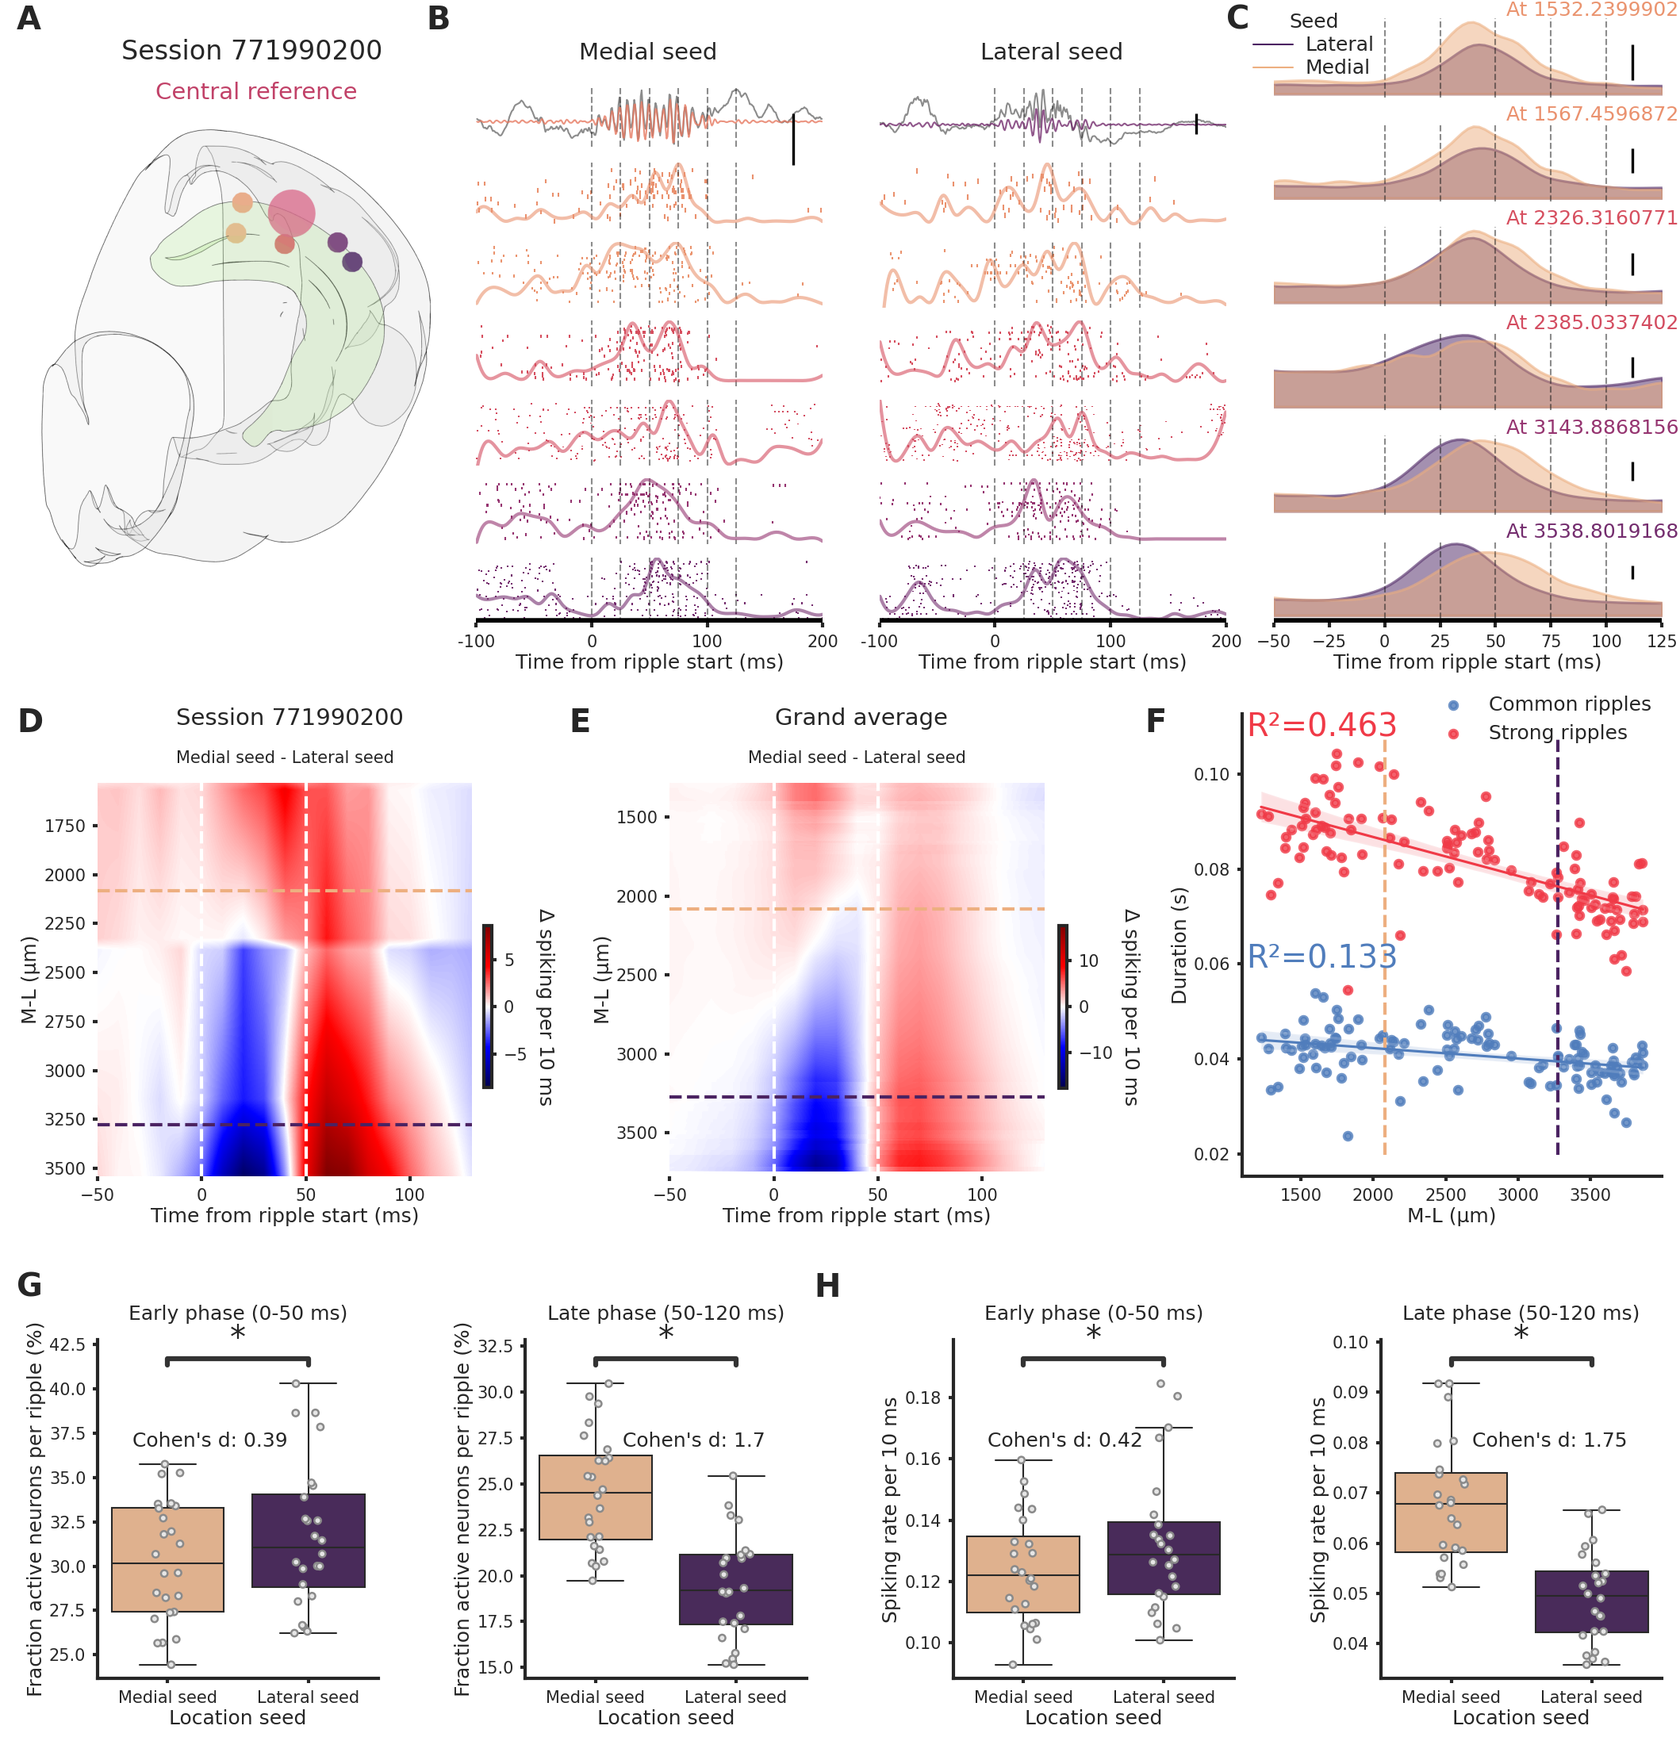
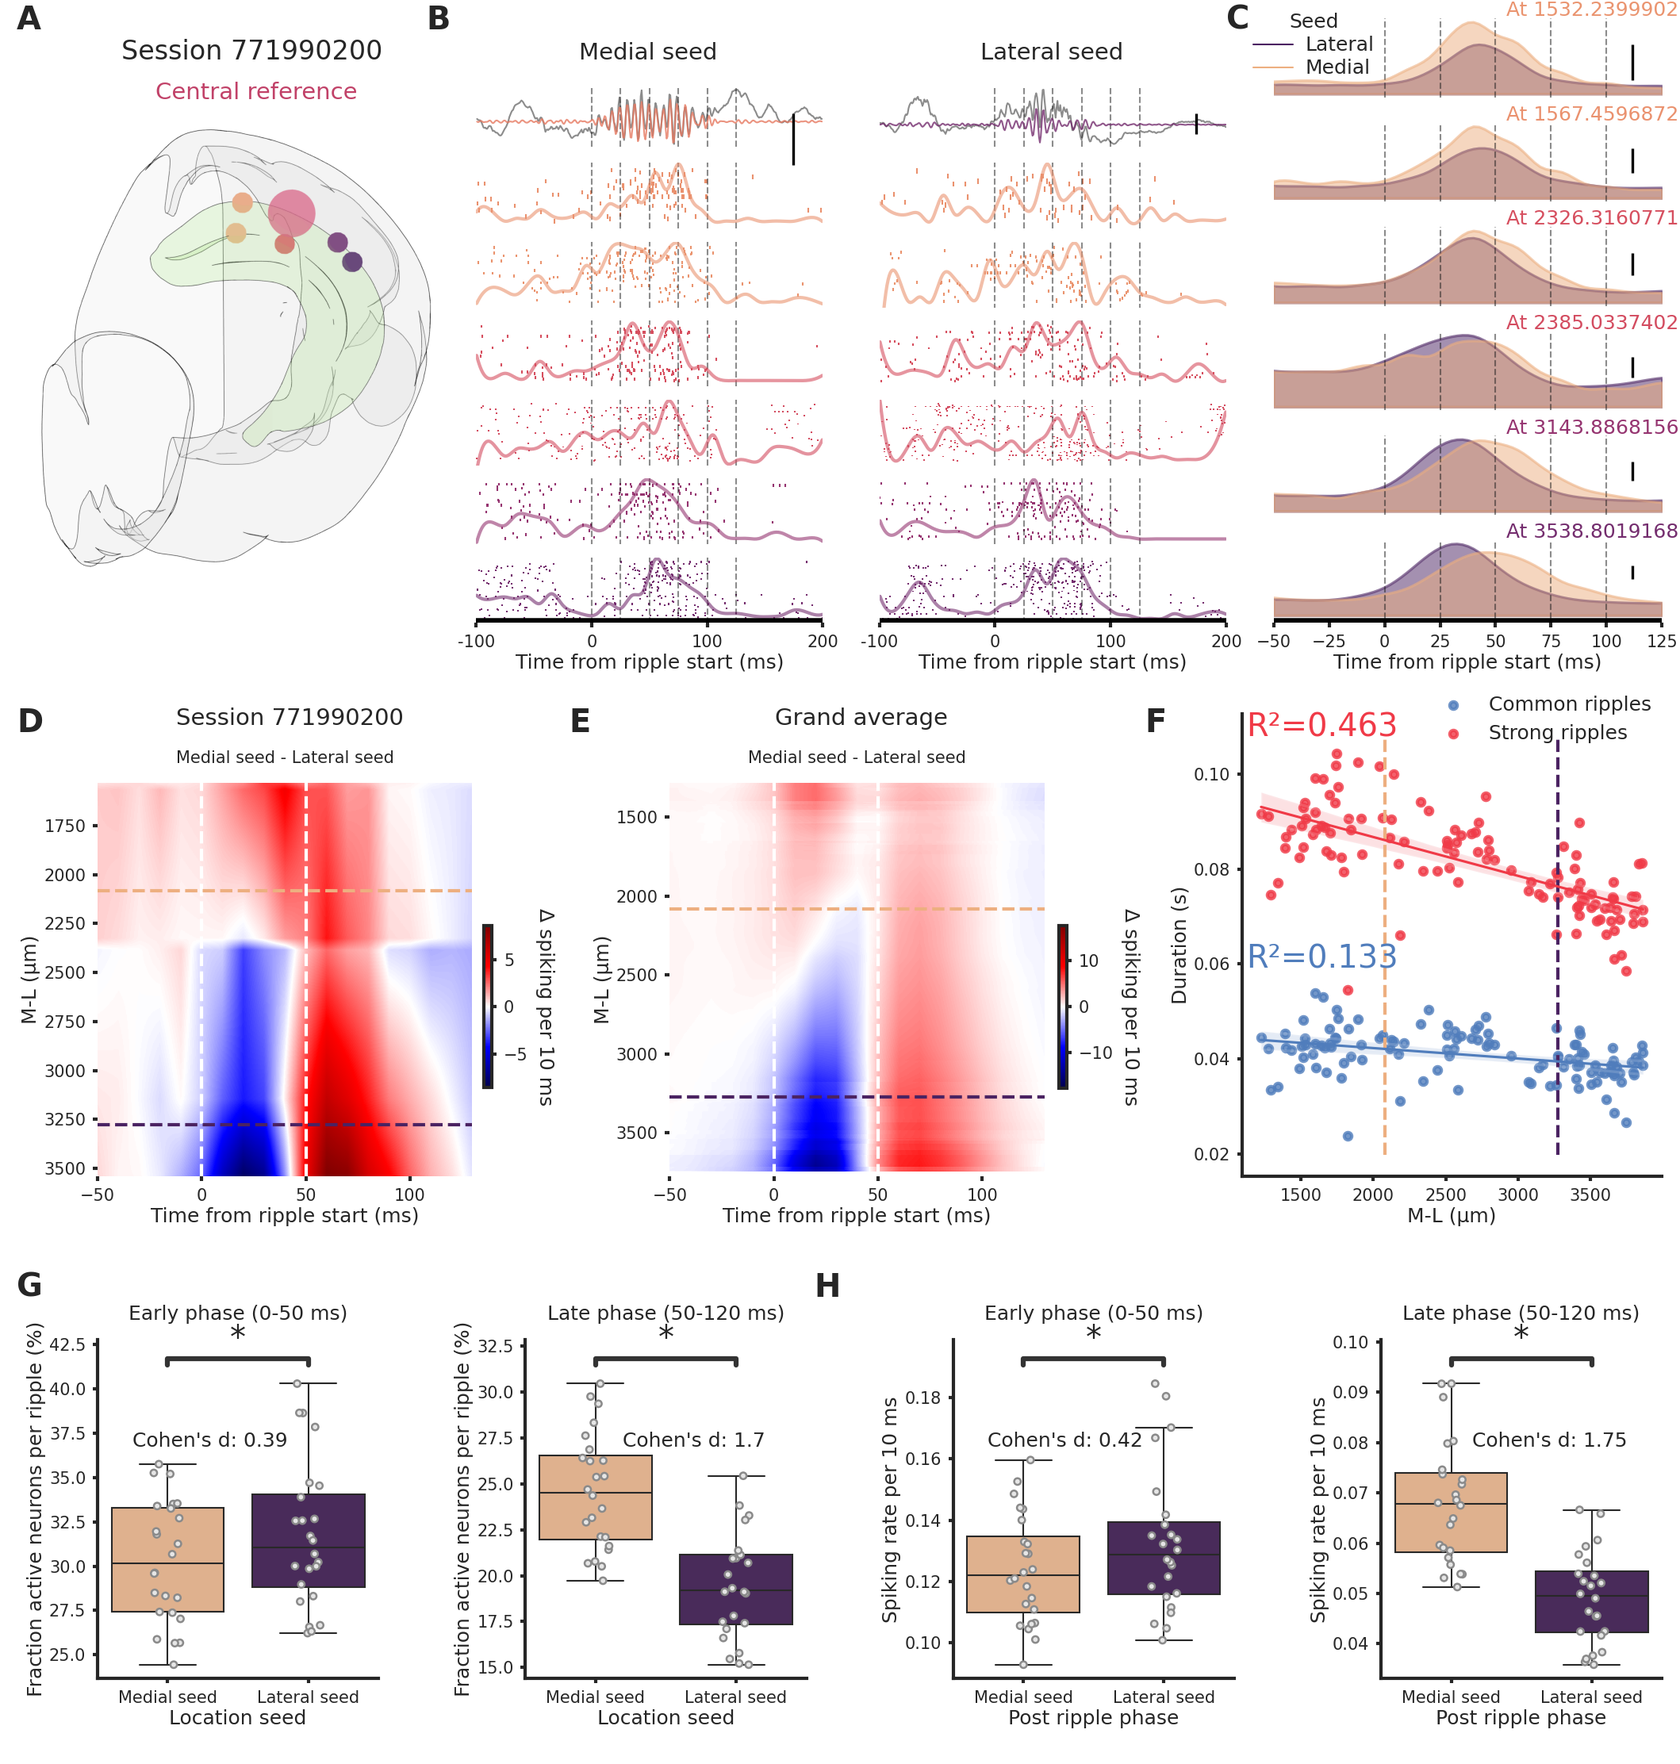
Clean code. Added window variables in Utils.Settings for spiking analysis.

diff --git a/Figures/Figure_4/Figure_4_spiking_rate_early_late.py b/Figures/Figure_4/Figure_4_spiking_rate_early_late.py
@@ -24,27 +24,27 @@ fig, axs = plt.subplots(1, 2, figsize=(16, 8))
 
 data = pd.melt(tot_summary_early[["Lateral seed", "Medial seed", "Session id"]],
                value_vars=["Lateral seed", "Medial seed"],
-               id_vars=["Session id"], var_name='Location seed', value_name='Spiking rate per 10 ms').groupby(
-    ["Session id", "Location seed"]).mean().reset_index()
+               id_vars=["Session id"], var_name='Post ripple phase', value_name='Spiking rate per 10 ms').groupby(
+    ["Session id", "Post ripple phase"]).mean().reset_index()
 
-sns.boxplot(data=data, x="Location seed", y="Spiking rate per 10 ms", showfliers=False, ax=axs[0], palette=palette_ML,
+sns.boxplot(data=data, x="Post ripple phase", y="Spiking rate per 10 ms", showfliers=False, ax=axs[0], palette=palette_ML,
             order=["Medial seed", "Lateral seed"])
 ax = sns.stripplot(data=tot_summary_early.groupby("Session id")[["Lateral seed", "Medial seed"]].mean(), ax=axs[0],
                    dodge=True, size=2, color=".9", linewidth=0.6, jitter=0.1, order=["Medial seed", "Lateral seed"])
 axs[0].set_title("Early phase (0-50 ms)")
 
-print(pg.normality(data, dv="Spiking rate per 10 ms", group="Location seed"))
-print(pg.ttest(data[data["Location seed"] == "Medial seed"]["Spiking rate per 10 ms"],
-               data[data["Location seed"] == "Lateral seed"]["Spiking rate per 10 ms"])["p-val"])
-print(pg.mwu(data[data["Location seed"] == "Medial seed"]["Spiking rate per 10 ms"],
-             data[data["Location seed"] == "Lateral seed"]["Spiking rate per 10 ms"])["p-val"])
+print(pg.normality(data, dv="Spiking rate per 10 ms", group="Post ripple phase"))
+print(pg.ttest(data[data["Post ripple phase"] == "Medial seed"]["Spiking rate per 10 ms"],
+               data[data["Post ripple phase"] == "Lateral seed"]["Spiking rate per 10 ms"])["p-val"])
+print(pg.mwu(data[data["Post ripple phase"] == "Medial seed"]["Spiking rate per 10 ms"],
+             data[data["Post ripple phase"] == "Lateral seed"]["Spiking rate per 10 ms"])["p-val"])
 
-ttest_early_spiking = pg.ttest(data[data["Location seed"] == "Medial seed"]["Spiking rate per 10 ms"],
-                  data[data["Location seed"] == "Lateral seed"]["Spiking rate per 10 ms"], paired=True)
+ttest_early_spiking = pg.ttest(data[data["Post ripple phase"] == "Medial seed"]["Spiking rate per 10 ms"],
+                  data[data["Post ripple phase"] == "Lateral seed"]["Spiking rate per 10 ms"], paired=True)
 
 if ttest_early_spiking["p-val"].values[0] < 0.05:
     annot = Annotator(ax, data=data, pairs=[("Medial seed", "Lateral seed")],
-                      y="Spiking rate per 10 ms", x="Location seed", palette=palette_ML,
+                      y="Spiking rate per 10 ms", x="Post ripple phase", palette=palette_ML,
                       order=["Medial seed", "Lateral seed"])
     (annot
      .configure(test=None, test_short_name="custom test", text_format='star', loc='inside', verbose=0)
@@ -55,26 +55,26 @@ if ttest_early_spiking["p-val"].values[0] < 0.05:
                 fontsize=6, ha='center', va='center');
 
 data = pd.melt(tot_summary_late[["Lateral seed", "Medial seed", "Session id"]],
-               value_vars=["Lateral seed", "Medial seed"], id_vars=["Session id"], var_name='Location seed',
-               value_name='Spiking rate per 10 ms').groupby(["Session id", "Location seed"]).mean().reset_index()
+               value_vars=["Lateral seed", "Medial seed"], id_vars=["Session id"], var_name='Post ripple phase',
+               value_name='Spiking rate per 10 ms').groupby(["Session id", "Post ripple phase"]).mean().reset_index()
 
-sns.boxplot(data=data, x="Location seed", y="Spiking rate per 10 ms", showfliers=False, ax=axs[1], palette=palette_ML,
+sns.boxplot(data=data, x="Post ripple phase", y="Spiking rate per 10 ms", showfliers=False, ax=axs[1], palette=palette_ML,
             order=["Medial seed", "Lateral seed"])
 ax = sns.stripplot(data=tot_summary_late.groupby("Session id")[["Lateral seed", "Medial seed"]].mean(), ax=axs[1],
                    dodge=True, size=2, color=".9", linewidth=0.6, jitter=0.1, order=["Medial seed", "Lateral seed"])
 
-print(pg.normality(data, dv="Spiking rate per 10 ms", group="Location seed"))
-print(pg.ttest(data[data["Location seed"] == "Medial seed"]["Spiking rate per 10 ms"],
-               data[data["Location seed"] == "Lateral seed"]["Spiking rate per 10 ms"])["p-val"])
-print(pg.mwu(data[data["Location seed"] == "Medial seed"]["Spiking rate per 10 ms"],
-             data[data["Location seed"] == "Lateral seed"]["Spiking rate per 10 ms"])["p-val"])
+print(pg.normality(data, dv="Spiking rate per 10 ms", group="Post ripple phase"))
+print(pg.ttest(data[data["Post ripple phase"] == "Medial seed"]["Spiking rate per 10 ms"],
+               data[data["Post ripple phase"] == "Lateral seed"]["Spiking rate per 10 ms"])["p-val"])
+print(pg.mwu(data[data["Post ripple phase"] == "Medial seed"]["Spiking rate per 10 ms"],
+             data[data["Post ripple phase"] == "Lateral seed"]["Spiking rate per 10 ms"])["p-val"])
 
-ttest_late_spiking = pg.ttest(data[data["Location seed"] == "Medial seed"]["Spiking rate per 10 ms"],
-                  data[data["Location seed"] == "Lateral seed"]["Spiking rate per 10 ms"], paired=True)
+ttest_late_spiking = pg.ttest(data[data["Post ripple phase"] == "Medial seed"]["Spiking rate per 10 ms"],
+                  data[data["Post ripple phase"] == "Lateral seed"]["Spiking rate per 10 ms"], paired=True)
 
 if ttest_late_spiking["p-val"].values[0] < 0.05:
     annot = Annotator(ax, data=data, pairs=[("Medial seed", "Lateral seed")],
-                      y="Spiking rate per 10 ms", x="Location seed", palette=palette_ML,
+                      y="Spiking rate per 10 ms", x="Post ripple phase", palette=palette_ML,
                       order=["Medial seed", "Lateral seed"])
     (annot
      .configure(test=None, test_short_name="custom test", text_format='star', loc='inside', verbose=0)

diff --git a/Utils/Utils.py b/Utils/Utils.py
@@ -1361,7 +1361,7 @@ def batch_trajectories(ripples_calcs, kind, func):
         ripples = ripples_calcs[session_id][3].copy()
         ripples = ripples[ripples["Area"] == "CA1"]
         ripples = ripples.groupby("Probe number-area").filter(lambda group: group["∫Ripple"].var() > var_thr)
-        input_rip.append(ripples.groupby("Probe number-area").mean()["M-L (µm)"])
+        input_rip.append(ripples.groupby("Probe number-area")["M-L (µm)"].mean())
 
     ml_space = pd.concat(input_rip)
 
@@ -1405,7 +1405,7 @@ def batch_trajectories(ripples_calcs, kind, func):
         if kind == "medial":
             position = "Medial"
             source_area = str(ripples["Probe number"].min()) + "-CA1"
-            if (np.any(ripples.groupby("Probe number-area").mean()["M-L (µm)"] < medial_lim)) & (np.any(ripples.groupby("Probe number-area").mean()["M-L (µm)"] > medial_lim)): # check that there are recording sites in other hippocampal sections
+            if (np.any(ripples.groupby("Probe number-area")["M-L (µm)"].mean() < medial_lim)) & (np.any(ripples.groupby("Probe number-area")["M-L (µm)"].mean() > medial_lim)): # check that there are recording sites in other hippocampal sections
                 spatial_infos.append([ripples.groupby("Probe number-area").mean().loc[source_area, :], pd.DataFrame(
                     ripples.groupby("Probe number-area").mean().loc[
                     ripples.groupby("Probe number-area").mean().index != source_area, :])])
@@ -1413,15 +1413,15 @@ def batch_trajectories(ripples_calcs, kind, func):
         elif kind == "lateral":
             position = "Lateral"
             source_area = str(ripples["Probe number"].max()) + "-CA1"
-            if (np.any(ripples.groupby("Probe number-area").mean()["M-L (µm)"] < lateral_lim)) & (np.any(ripples.groupby("Probe number-area").mean()["M-L (µm)"] > lateral_lim)):
+            if (np.any(ripples.groupby("Probe number-area")["M-L (µm)"].mean() < lateral_lim)) & (np.any(ripples.groupby("Probe number-area")["M-L (µm)"].mean() > lateral_lim)):
                 spatial_infos.append([ripples.groupby("Probe number-area").mean().loc[source_area, :], pd.DataFrame(
                                       ripples.groupby("Probe number-area").mean().loc[
                                       ripples.groupby("Probe number-area").mean().index != source_area, :])])
                 input_rip.append((session_id, ripples, spatial_info, source_area, position))
         elif kind == "center":
             position = "Center"
-            if (np.any(ripples.groupby("Probe number-area").mean()["M-L (µm)"].between(medial_lim, lateral_lim))) & (np.any(~ripples.groupby("Probe number-area").mean()["M-L (µm)"].between(medial_lim, lateral_lim))):
-                source_area = ripples.groupby("Probe number-area").mean()['M-L (µm)'].sub(center).abs().idxmin()
+            if (np.any(ripples.groupby("Probe number-area")["M-L (µm)"].mean().between(medial_lim, lateral_lim))) & (np.any(~ripples.groupby("Probe number-area")["M-L (µm)"].mean().between(medial_lim, lateral_lim))):
+                source_area = ripples.groupby("Probe number-area")["M-L (µm)"].mean().sub(center).abs().idxmin()
                 spatial_infos.append([ripples.groupby("Probe number-area").mean().loc[source_area, :], pd.DataFrame(
                     ripples.groupby("Probe number-area").mean().loc[
                     ripples.groupby("Probe number-area").mean().index != source_area, :])])
@@ -1520,7 +1520,7 @@ def process_spikes_per_ripple(time_center, space_sub_spike_times, window):
     out = []
     for cluster_id, spikes in time_space_sub_spike_times.items():
         out.append((cluster_id, len(spikes)/((window[1] + window[0]) * 100))) # per 10 ms
-
+        #out.append((cluster_id, len(spikes)/(((window[1] + window[0]) * 1000)/10))) # per 10 ms
     return out
 
 def batch_process_spike_hists_by_seed_location(func, real_ripple_summary, units, spike_times, target_area,

diff --git a/Calculations/Calculations_Figure_4.py b/Calculations/Calculations_Figure_4.py
@@ -60,7 +60,7 @@ def consolidate_spiking(spike_clusters, kind):
 
 
         summary_spiking["L-R (µm)"] = units.loc[summary_spiking.index]["left_right_ccf_coordinate"]
-        summary_spiking["Location seed"] = kind
+        summary_spiking["Post ripple phase"] = kind
 
         summary_spiking["ecephys_structure_acronym"] = units.loc[summary_spiking.index, "ecephys_structure_acronym"]
         summary_spiking["waveform_duration"] = units.loc[summary_spiking.index,"waveform_duration"]
@@ -266,12 +266,12 @@ with open(f"{ output_folder_figures_calculations}/temp_data_figure_4.pkl", "wb")
     dill.dump([space_sub_spike_times, target_area, units, field_to_use_to_compare,
                session_id_example, lfp, lfp_per_probe,
                ripple_cluster_lateral_seed, ripple_cluster_medial_seed, source_area, ripples,
-               tot_summary_early,  summary_fraction_active_clusters_per_ripples_early, \
-summary_fraction_active_clusters_per_ripples_early_by_neuron_type,
+               tot_summary_early,  summary_fraction_active_clusters_per_ripples_early,
+               summary_fraction_active_clusters_per_ripples_early_by_neuron_type,
                tot_summary_late,  summary_fraction_active_clusters_per_ripples_late,
-                                   summary_fraction_active_clusters_per_ripples_late_by_neuron_type,
-               tot_summary, summary_fraction_active_clusters_per_ripples, \
-summary_fraction_active_clusters_per_ripples_by_neuron_type], fp)
+               summary_fraction_active_clusters_per_ripples_late_by_neuron_type,
+               tot_summary, summary_fraction_active_clusters_per_ripples,
+               summary_fraction_active_clusters_per_ripples_by_neuron_type], fp)
 
 
 # create brainrenders

diff --git a/Calculations/Calculate_spike_clusters_parent_area_by_seed_location_first_50ms.py b/Calculations/Calculate_spike_clusters_parent_area_by_seed_location_first_50ms.py
@@ -6,7 +6,7 @@ from rich import print
 from tqdm.auto import tqdm
 from time import perf_counter
 from scipy.stats import zscore
-from Utils.Settings import window_spike_clu, output_folder_calculations, neuropixel_dataset, var_thr, minimum_ripples_count_spike_analysis, minimum_ripples_count_generated_in_lateral_or_medial_spike_analysis
+from Utils.Settings import window_spike_clu_early, output_folder_calculations, neuropixel_dataset, var_thr, minimum_ripples_count_spike_analysis, minimum_ripples_count_generated_in_lateral_or_medial_spike_analysis
 from Utils.Utils import acronym_to_main_area, clean_ripples_calculations, find_ripples_clusters_new, process_spikes_per_ripple,\
         batch_process_spike_clusters_by_seed_location
 
@@ -134,7 +134,7 @@ for session_id in tqdm(ripples_calcs.keys()):
                 lrs, out_clusters_medial, out_clusters_lateral, duration_ripples_medial, duration_ripples_lateral, units\
                     = batch_process_spike_clusters_by_seed_location(func, real_ripple_summary, units, spike_times,
                                                                            target_area,
-                                                                    field_to_use_to_compare, n_cpus, window_spike_clu)
+                                                                    field_to_use_to_compare, n_cpus, window_spike_clu_early)
 
                 spike_clusters[(session_id, target_area, type_source)] = [lrs, out_clusters_medial, out_clusters_lateral,
                                                                           duration_ripples_medial, duration_ripples_lateral, units]

diff --git a/Calculations/Calculate_spike_clusters_parent_area_by_seed_location_after_50ms.py b/Calculations/Calculate_spike_clusters_parent_area_by_seed_location_after_50ms.py
@@ -6,7 +6,7 @@ from rich import print
 from tqdm.auto import tqdm
 from time import perf_counter
 from scipy.stats import zscore
-from Utils.Settings import window_spike_clu, output_folder_calculations, neuropixel_dataset, var_thr, minimum_ripples_count_spike_analysis, minimum_ripples_count_generated_in_lateral_or_medial_spike_analysis
+from Utils.Settings import window_spike_clu_late, output_folder_calculations, neuropixel_dataset, var_thr, minimum_ripples_count_spike_analysis, minimum_ripples_count_generated_in_lateral_or_medial_spike_analysis
 from Utils.Utils import acronym_to_main_area, clean_ripples_calculations, find_ripples_clusters_new, process_spikes_per_ripple,\
         batch_process_spike_clusters_by_seed_location
 
@@ -134,7 +134,7 @@ for session_id in tqdm(ripples_calcs.keys()):
                 lrs, out_clusters_medial, out_clusters_lateral, duration_ripples_medial, duration_ripples_lateral, units\
                     = batch_process_spike_clusters_by_seed_location(func, real_ripple_summary, units, spike_times,
                                                                            target_area, field_to_use_to_compare,
-                                                                    n_cpus, window_spike_clu)
+                                                                    n_cpus, window_spike_clu_late)
 
                 spike_clusters[(session_id, target_area, type_source)] = [lrs, out_clusters_medial, out_clusters_lateral,
                                                                           duration_ripples_medial, duration_ripples_lateral, units]

diff --git a/Utils/Settings.py b/Utils/Settings.py
@@ -53,6 +53,8 @@ var_thr = 5
 
 window_spike_hist = (0.25, 0.25)
 window_spike_clu = (0, 0.12)
+window_spike_clu_late = (-0.05, 0.12)
+window_spike_clu_early = (0, 0.05)
 
 # inh-exc waveform duration threshold
 

diff --git a/README.md b/README.md
@@ -22,6 +22,7 @@ Figure 3         |  Figure 4
 6. Reproduce figures by running the associated code, e.g. Figures/Figure_1/Figure_1.py (output in Output_figures folder). Reproduce text by running Manuscript/De_Filippo_et_al_2022.py (output in Manucript folder, see [here](https://github.com/RobertoDF/Pyscipaper))
 
 All data can be recomputed from scratch with the functions provided in the Calculations folder, download the [Allen institute Neuropixel dataset](https://allensdk.readthedocs.io/en/latest/visual_coding_neuropixels.html) and change `neuropixel_dataset` in Utils/Settings.py.
+If you want to recompute all the brain renderings using [Brainrender](https://github.com/brainglobe/brainrender), you will need the latest version available on github (not yet on pip).
 
 ## Main figures data processing flow
 ![](Main_figs_flowchart.png)
